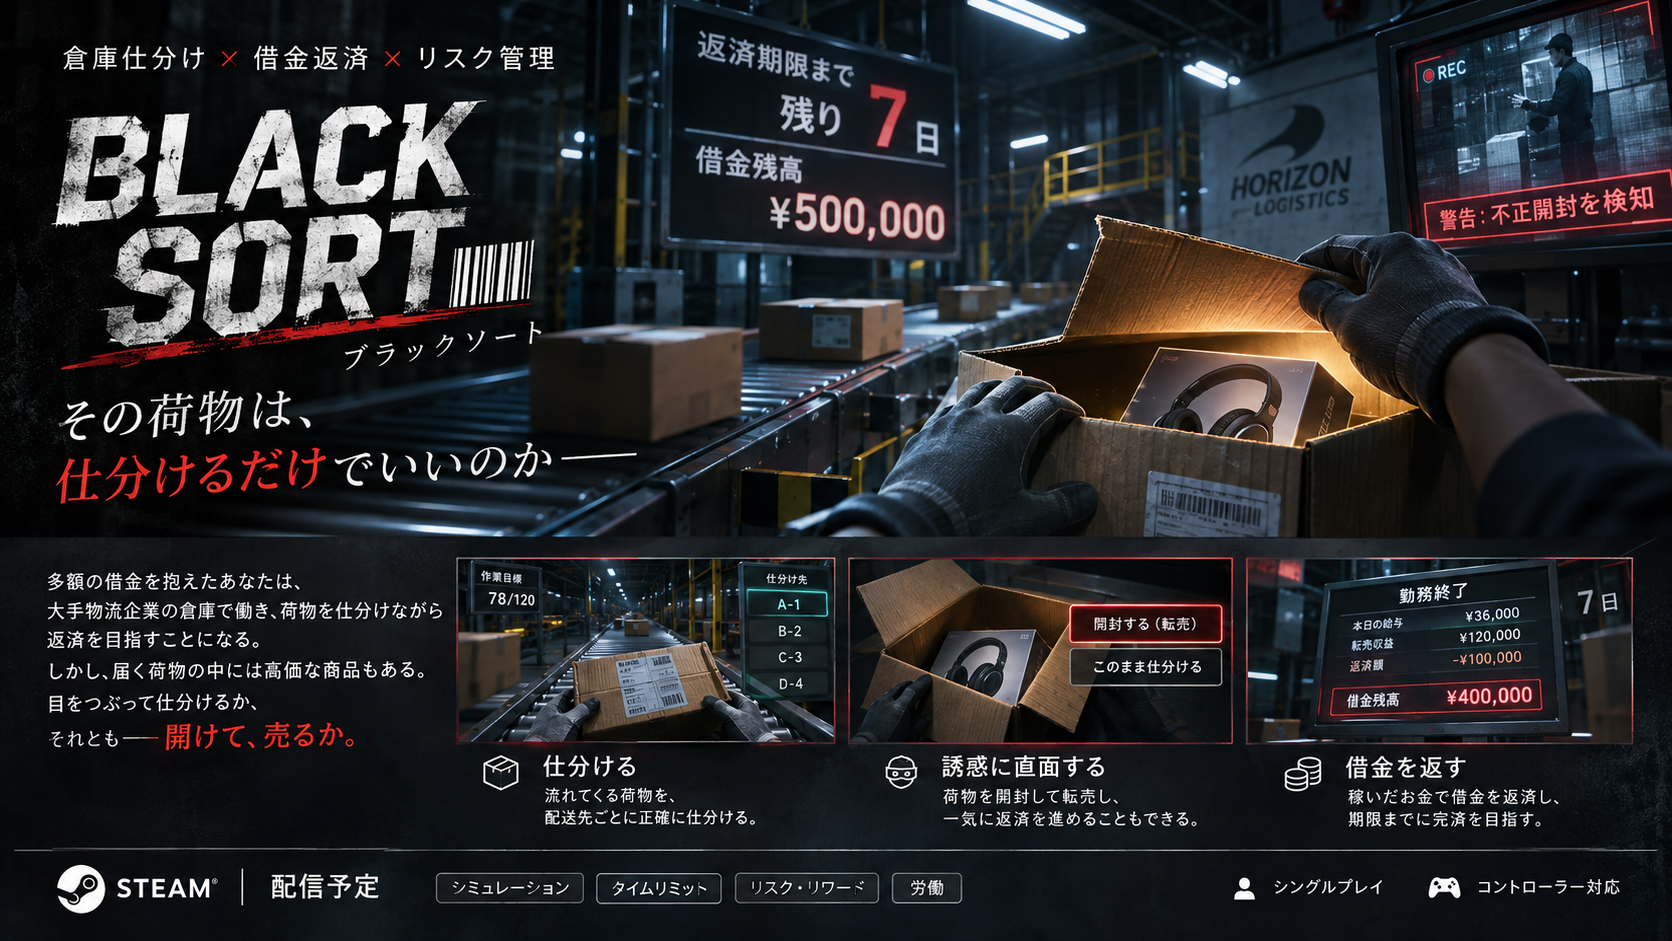
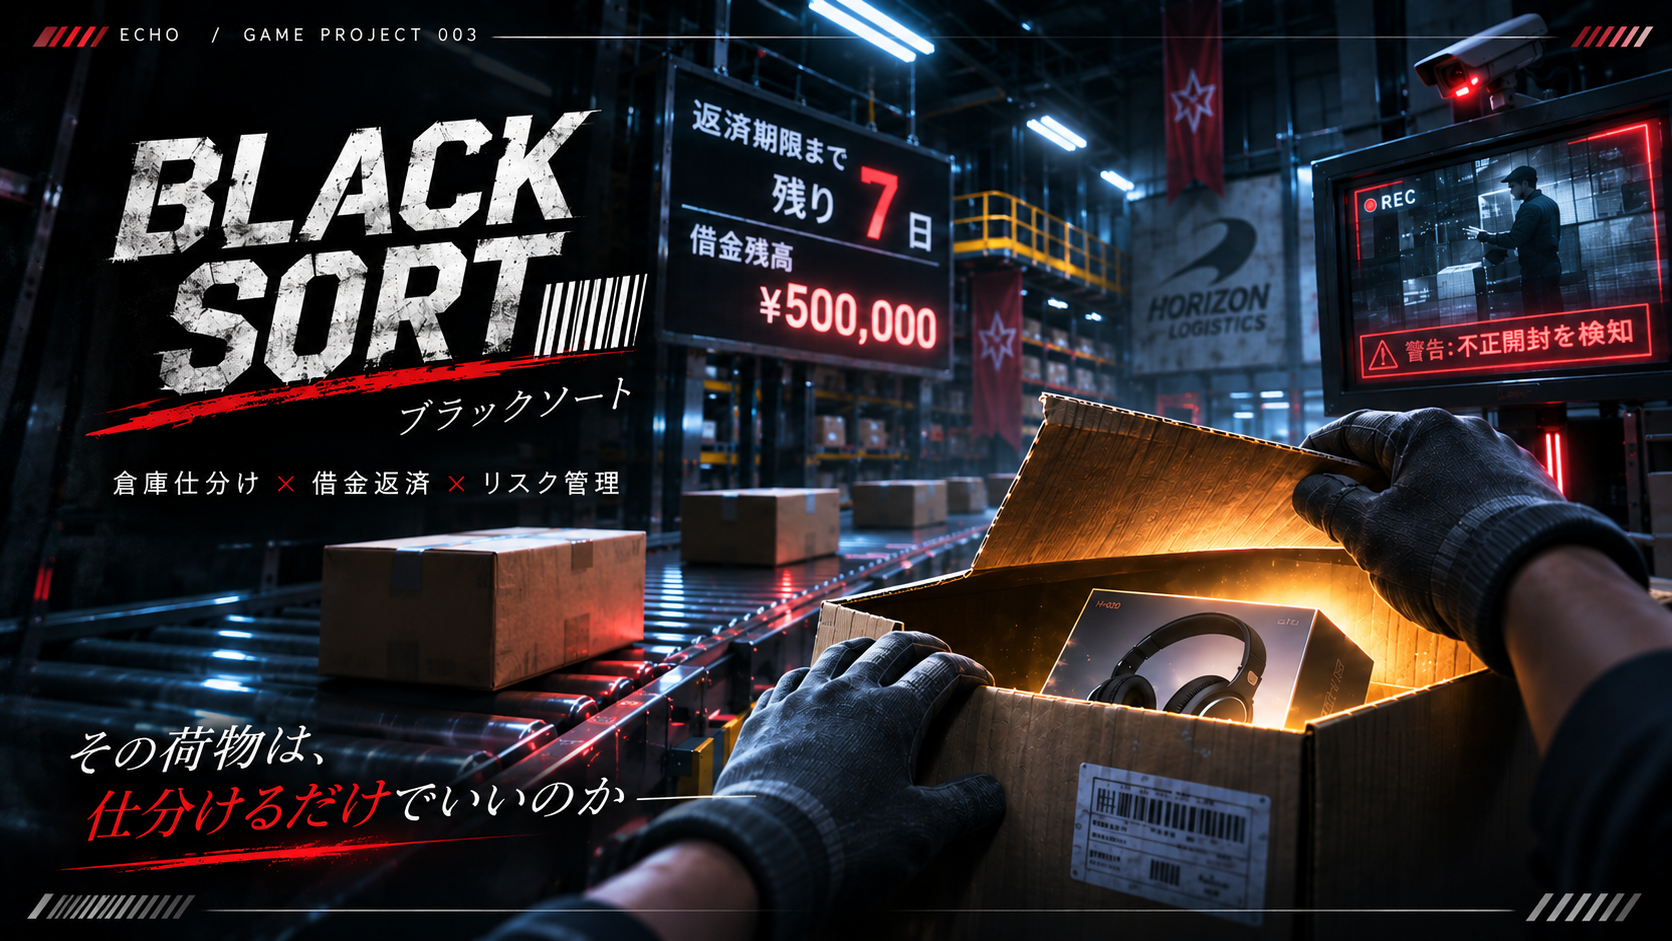
Add files via upload

diff --git a/about.html b/about.html
@@ -96,10 +96,10 @@
                         01 / BUSINESS
                     </p>
 
-                    <h3>営業職としての培った、信頼を積み重ねる姿勢</h3>
+                    <h3>営業職で培った、信頼を積み重ねる姿勢</h3>
 
                     <p>
-                        営業職として、報告・連絡・相談を徹底し。
+                        営業職として、報告・連絡・相談を徹底し、
                         周囲との情報共有を大切にしてきました。
                     </p>
 
@@ -134,7 +134,7 @@
 
                     <p>
                         その関心は、学生時代のライブ企画や、
-                        社会人になってからのVRchatイベントの
+                        社会人になってからのVRChatイベントの
                         企画・運営にもつながっています。
                         自分が考えたアイデアが実際の体験となり、
                         人の反応として返ってくることに、
@@ -266,93 +266,6 @@
                     受け手の体験を設計できるクリエイターへ。
                 </p>
 
-                <details class="vision-secret">
-                    <summary>
-                        BONUS TRACK 00 / UNRELEASED
-                    </summary>
-
-                    <div class="bonus-recording">
-                        <span class="bonus-recording-light" aria-hidden="true"></span>
-                        <span>STILL RECORDING...</span>
-                    </div>
-
-                    <!-- BONUS TRACK / LOST SIGNAL -->
-                    <div class="lost-signal" id="lost-signal">
-
-                        <div class="lost-signal-top">
-                            <span>SIGNAL ARCHIVE / 00</span>
-                            <span>● OFFLINE</span>
-                        </div>
-
-                        <h3>LOST SIGNAL<span>.</span></h3>
-
-                        <p class="lost-signal-lead">
-                            失われた信号を、再接続してください。<br>
-                            光った順番を覚えて、同じ順番に入力。
-                        </p>
-
-                        <!-- 3つの信号 -->
-                        <div class="lost-signal-grid"
-                             role="group"
-                             aria-label="信号入力">
-
-                             <button type="button"
-                                     class="lost-signal-pad"
-                                     data-signal="0"
-                                     aria-label="信号01"
-                                     disabled>01</button>
-
-                             <button type="button"
-                                     class="lost-signal-pad"
-                                     data-signal="1"
-                                     aria-label="信号02"
-                                     disabled>02</button>
-
-                             <button type="button"
-                                     class="lost-signal-pad"
-                                     data-signal="2"
-                                     aria-label="信号03"
-                                     disabled>03</button>
-
-                        </div>
-
-                        <!-- 操作 -->
-                        <div class="lost-signal-actions">
-
-                            <button type="button"
-                                    id="lost-signal-start">
-                                CONNECT
-                            </button>
-
-                            <span id="lost-signal-progress">
-                                ROUND 0 / 3
-                            </span>
-
-                        </div>
-
-                        <p class="lost-signal-status"
-                           id="lost-signal-status"
-                           role="status">
-                            CONNECTを押して開始
-                        </p>
-
-                        <!-- クリア後の隠しメッセージ -->
-                        <div class="lost-signal-result"
-                             id="lost-signal-result"
-                             hidden>
-
-                             <strong>RECORD RESTORED.</strong>
-
-                             <p>
-                                この記録の続きは、まだ存在しない。<br>
-                                だから、これからつくる。
-                             </p>
-
-                        </div>
-
-                    </div>
-
-                </details>
 
         </section>
 
@@ -408,232 +321,6 @@ document.addEventListener("DOMContentLoaded", () => {
     }
 
 });
-</script>
-
-<!-- =====================================
-     LOST SIGNAL / GAME SYSTEM
-===================================== -->
-
-<script>
-(() => {
-
-    const game = document.getElementById("lost-signal");
-    if(!game) return;
-
-    const pads = [
-        ...game.querySelectorAll(".lost-signal-pad")
-    ];
-
-    const startButton =
-        document.getElementById("lost-signal-start");
-
-    const progress =
-        document.getElementById("lost-signal-progress");
-
-    const status =
-        document.getElementById("lost-signal-status");
-
-    const result = 
-        document.getElementById("lost-signal-result");
-
-    const secret = game.closest("details");
-
-    const maxRounds = 3;
-
-    let round = 0;
-    let sequence = [];
-    let inputIndex = 0;
-    let acceptingInput = false;
-    let gameVersion = 0;
-
-    // 時間を空ける処理
-    const sleep = ms =>
-        new Promise(resolve => setTimeout(resolve, ms));
-
-    // 信号ボタンの操作可否
-    function enablePads(enabled){
-        pads.forEach(pad => {
-            pad.disabled = !enabled;
-        });
-    }
-
-    // 光を消す
-    function clearLights(){
-        pads.forEach(pad => {
-            pad.classList.remove("is-lit");
-        });
-    }
-
-    // 信号を順番に光らせる
-    async function playRound(version) {
-
-        acceptingInput = false;
-        enablePads(false);
-        inputIndex = 0;
-        
-        progress.textContent =
-            `ROUND ${round} / ${maxRounds}`;
-
-        // ROUND 1 = 4回、ROUND 2 = 5回...
-        sequence = Array.from(
-            { length: round + 3 },
-            () => Math.floor(Math.random() * pads.length)
-        );
-
-        status.textContent =
-            "信号を再生中。順番を覚えてください。";
-
-        await sleep(600);
-
-        if(version !== gameVersion) return;
-
-        const lightTime = [550, 430, 320][round - 1];
-        const gapTime = [280, 220, 160][round - 1];
-
-        for(const number of sequence){
-
-            pads[number].classList.add("is-lit");
-
-            await sleep(lightTime);
-
-            if(version !== gameVersion){
-                clearLights();
-                return;
-            }
-
-            pads[number].classList.remove("is-lit");
-
-            await sleep(gapTime);
-
-            if(version !== gameVersion) return;
-
-        }
-
-        acceptingInput = true;
-        enablePads(true);
-
-        status.textContent =
-            "光った順番に信号を押してください。";
-    }
-
-    // 全ラウンドクリア
-    function gameClear(){
-
-        acceptingInput = false;
-        enablePads(false);
-
-        status.textContent =
-            "信号の復元に成功しました！";
-
-        result.hidden = false;
-
-        startButton.disabled = false;
-        startButton.textContent = "PLAY AGAIN";
-    }
-
-    // 信号を押したとき
-    pads.forEach((pad, index) => {
-        pad.addEventListener("click", async() => {
-
-        if(!acceptingInput) return;
-
-        // 入力した信号が違う場合
-        if(index !== sequence[inputIndex]){
-
-            acceptingInput = false;
-            enablePads(false);
-
-            status.textContent =
-                "SIGNAL LOST... 信号が途切れました。";
-
-            startButton.disabled = false;
-            startButton.textContent = "RETRY";
-
-            return;
-        }
-
-        // 正解した信号を一瞬光らせる
-        pad.classList.add("is-lit");
-
-        setTimeout(() => {
-            pad.classList.remove("is-lit");
-        }, 180);
-
-        inputIndex++;
-
-        // まだ入力する信号が残っている
-        if(inputIndex < sequence.length) return;
-
-        acceptingInput = false;
-        enablePads(false);
-
-        // 最終ラウンド終了
-        if(round === maxRounds){
-            gameClear();
-            return;
-        }
-
-        // 次のラウンド
-        status.textContent =
-            "SIGNAL CONNECTED. 次の信号へ...";
-
-        const version = gameVersion;
-
-        await sleep(850);
-
-        if(version !== gameVersion) return;
-
-        round++;
-        playRound(version);
-    });
-});
-
-// CONNECTボタン
-startButton.addEventListener("click", () => {
-
-    gameVersion++;
-
-    round = 1;
-    inputIndex = 0;
-    sequence = [];
-    acceptingInput = false;
-
-    clearLights();
-    enablePads(false);
-
-    result.hidden = true;
-
-    startButton.disabled = true;
-    startButton.textContent = "CONNECTING...";
-
-    playRound(gameVersion);
-});
-
-// BONUS TRACKを閉じたときにリセット
-if(secret){
-   secret.addEventListener("toggle", () => {
-
-    if(secret.open) return;
-
-    gameVersion++;
-    round = 0;
-    acceptingInput = false;
-
-    clearLights();
-    enablePads(false);
-
-    startButton.disabled = false;
-    startButton.textContent = "CONNECT";
-
-    progress.textContent = "ROUND 0 / 3";
-    status.textContent = "CONNECTを押して開始";
-
-    result.hidden = true;
-   });
-}
-
-})();
-
 </script>
 
 
